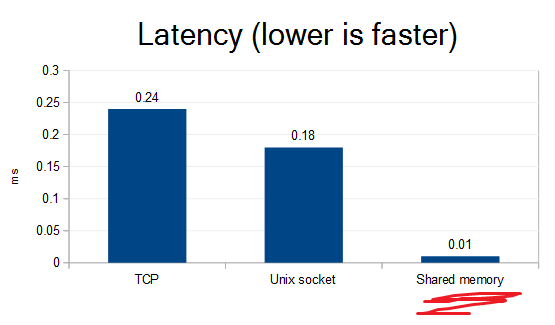
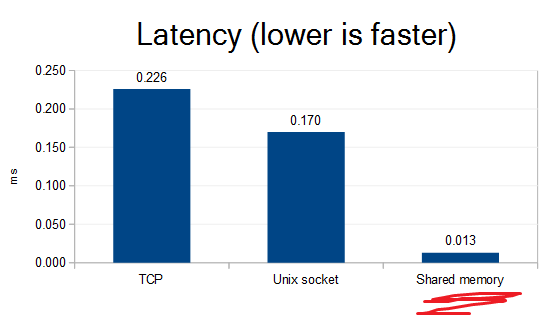
Updated, extended README.

diff --git a/README.md b/README.md
@@ -1,48 +1,8 @@
 # Shared memory support for Redis
 
-![Average latency: TCP=0.24ms Unix_socket=0.18ms Shared_memory=0.01ms](docs/latency_barchart.png)
+![Average latency: TCP=0.226ms Unix_socket=0.170ms Shared_memory=0.013ms](docs/latency_barchart.png)
 
-When your client is on the **same host as redis server**, you can get much better latency than going through the TCP stack. And surely you want the **best latency you can get**. Redis folk know this - that's why unix socket support exists. But you can do a lot better with shared memory!
-
-<pre>
-01:19:53 edg@host ~/tmp/redis $ ~/tmp/redis/src/redis-cli --latency
-min: 0, max: 3, avg: 0.24 (66054 samples)^C
-
-01:31:36 edg@host ~/tmp/redis $ ~/tmp/redis/src/redis-cli -s /tmp/redis.sock --latency
-min: 0, max: 3, avg: 0.18 (73476 samples)^C
-
-~/tmp/redis/src/redis-server --loadmodule ~/tmp/redis-module-shm/module-shm.so
-00:58:44 edg@host ~/tmp/redis $ ~/tmp/redis/src/redis-cli --latency-history
-min: 0, max: 1, avg: 0.02 (1476 samples) -- 15.01 seconds range
-min: 0, max: 1, avg: 0.01 (1476 samples) -- 15.01 seconds range
-min: 0, max: 520, avg: 0.43 (1416 samples) -- 15.01 seconds range
-min: 0, max: 5, avg: 0.02 (1475 samples) -- 15.01 seconds range
-min: 0, max: 1, avg: 0.01 (1475 samples) -- 15.01 seconds range
-min: 0, max: 4, avg: 0.01 (1474 samples) -- 15.00 seconds range
-min: 0, max: 40, avg: 0.28 (1436 samples) -- 15.01 seconds range
-min: 0, max: 1, avg: 0.01 (1476 samples) -- 15.00 seconds range
-min: 0, max: 2, avg: 0.01 (1476 samples) -- 15.01 seconds range
-min: 0, max: 1, avg: 0.02 (1473 samples) -- 15.00 seconds range
-min: 0, max: 30, avg: 0.23 (1441 samples) -- 15.00 seconds range
-min: 0, max: 1, avg: 0.01 (1476 samples) -- 15.01 seconds range
-min: 0, max: 1, avg: 0.01 (1475 samples) -- 15.01 seconds range
-min: 0, max: 1, avg: 0.01 (1475 samples) -- 15.01 seconds range
-min: 0, max: 50, avg: 0.23 (1445 samples) -- 15.01 seconds range
-min: 0, max: 1, avg: 0.01 (1476 samples) -- 15.01 seconds range
-min: 0, max: 1, avg: 0.01 (1476 samples) -- 15.01 seconds range
-min: 0, max: 1, avg: 0.01 (1474 samples) -- 15.01 seconds range
-min: 0, max: 40, avg: 0.35 (1417 samples) -- 15.00 seconds range
-min: 0, max: 2, avg: 0.02 (1474 samples) -- 15.01 seconds range
-min: 0, max: 1, avg: 0.01 (1474 samples) -- 15.01 seconds range
-min: 0, max: 1, avg: 0.01 (1474 samples) -- 15.00 seconds range
-min: 0, max: 33, avg: 0.26 (1438 samples) -- 15.01 seconds range
-min: 0, max: 1, avg: 0.01 (1474 samples) -- 15.01 seconds range
-min: 0, max: 1, avg: 0.01 (1473 samples) -- 15.01 seconds range
-min: 0, max: 1, avg: 0.01 (1474 samples) -- 15.01 seconds range
-min: 0, max: 50, avg: 0.42 (1416 samples) -- 15.00 seconds range
-min: 0, max: 1, avg: 0.01 (1354 samples)^C
-</pre>
-^ Way too sensitive to system load... Working on it...
+When your client is on the **same host as redis server**, you can get much better latency than going through the TCP stack. And surely you want the **best latency you can get**. Redis folk know this - that's why unix socket support exists. But you can do a lot better with shared memory! See the benchmark at [#Performance](#Performance) section below.
 
 # Summary and usage
 
@@ -51,3 +11,59 @@ Redis module for shared memory client-server communication.
 **EARLY DEVELOPMENT!**
 
 **NOT ready for use to ANYONE!**
+
+
+### Compilation
+
+### Usage
+
+Server side: `redis-server --loadmodule module-shm.so`
+
+Client side: It's all the same [hiredis](https://github.com/redis/hiredis) you're used to using. Latency has its tradeoffs - to achieve maximum latency, a single thread is working at 100% load, actively reading for changes in memory. So, you must first understand this, and confirm latency is important for you, by calling: `asdfasdf`
+TODO
+
+### How does it work?
+
+This code all relies on Linux, GCC and x86. I'm not even trying to investigate other platforms or compilers, as each is like a unicorn in this field - amazingly unique, complex, entwined in mysterious behaviours. Linux & GCC & x86 is the most popular combo.
+* Linux shared memory - makes the communication possible. There are 2 FIFOs - one for each direction of communication. They are circular buffers of chars, nothing more.
+* GCC atomics - allows avoiding relatively heavy synchronization mechanisms. Forcing the compiler and CPU do things in order with [memory barriers](https://gcc.gnu.org/onlinedocs/gcc-4.4.0/gcc/Atomic-Builtins.html), and using TODO to avoid partial memory write/read nastiness.
+* GCC volatile - avoids optimization dropping "unneeded" reads/writes. GCC sanely assumes no outsider is able to modify the memory the code accesses, but the shared memory does exactly that. Using `volatile` drops the GCC assumption.
+* ~~mfence/clflush - avoids waiting for shared memory writes to move out of L1. (An alernative could be a [userspace DMA](https://github.com/ikwzm/udmabuf)?)~~ <- Nah, the default behaviour seems good enough and even slightly faster than clflush. Data moves out of L1 quickly. Calling clflush however forces data to be moved up to the main memory, a slow and often unnecessary task. 
+
+Whenever a TCP or socket read()/write() would be called, a pop/push on the circular buffer is done instead.
+
+A single dedicated thread on redis-server is actively reading the shared memory, waiting for input, or waiting for the buffer to free up. It never sleeps, and uses 100% of the CPU core, whenever at least one client is connected. Similarily, the redis client uses 100% of its CPU core during any redis API call. It's a chosen tradeof to avoid communicating through kernel, thus keeping latency extremely low. There is a gotcha though. When CPU load is high, the CPU scheduler gives bursts of CPU time, causing high latency during downtimes. As load gets higher, the duration and time between (=latency) the bursts gets higher. To avoid this latency, redis-server and client should be run with higher priority than other processes. Note that the same problem does not affect TCP or unix socket communication when redis requests have relatively large gaps between them. When a request occurs, the "waiting for sockets" redis server (and client, if it was also sleeping) is woken up almost immediately because it hasn't used up any recent CPU time yet. I may implement configurable alternatives later...
+
+Now, the nasty part...
+TODO
+
+The TCP or Unix socket connection is still necessary. It is used to exchange the info about the shared memory. When a new shared memory connection is established, a `SHM.OPEN` redis module command is sent through the socket. No more information is exchanged through the socket after that, until the connection needs to be broken down.
+
+### Performance
+
+Well, the barchart above pretty much describes it. There are a few things to take attention for though:
+* Your latency sensitive redis server and client need to run with high CPU scheduler priority. See section [#How does it work?](#How does it work?) for the explanation why it's needed.
+* I made the test on a practically idle host. When the host is under load (`stress --cpu 50`), the latency of TCP and unix socket communication decreases... Yeah, I know. Under load, unix socket ping latency drops to 0.052ms. Several times higher than shared memory but an impressive drop nonetheless. But why it happens, I don't know. CPU power saving? Other folk have noticed this phenomena too and are [guessing it may be a scheduler thing](http://stackoverflow.com/questions/33950984/how-to-understand-redis-clis-result-vs-redis-benchmarks-result).
+
+This is how the benchmark for the barchart is done:
+<pre>
+
+sudo nice -n -15 sudo -u edg ~/tmp/redis/src/redis-server --loadmodule ~/tmp/redis-module-shm/module-shm.so
+03:08:54 edg@host ~/tmp/redis $ sudo taskset 0x01 nice -n -15 sudo -u edg ~/tmp/redis/src/redis-cli --latency
+min: 0, max: 94, avg: 0.013 (878912 samples)^C
+
+sudo nice -n -15 sudo -u edg ~/tmp/redis/src/redis-server
+05:37:58 edg@host ~/tmp/redis $ sudo taskset 0x01 nice -n -15 sudo -u edg ~/tmp/redis/src/redis-cli --latency
+min: 0, max: 70, avg: 0.226 (853519 samples)^C
+
+sudo nice -n -15 sudo -u edg ~/tmp/redis/src/redis-server redis.conf # <- enabled unixsocket in conf
+10:02:25 edg@host ~/tmp/redis $ sudo taskset 0x01 nice -n -15 sudo -u edg ~/tmp/redis/src/redis-cli -s redis.sock --latency
+min: 0, max: 106, avg: 0.170 (1041387 samples)^C
+
+</pre>
+
+If you compile this module, please make the tests and send in your results (as a new issue or email), for a little less bias.
+You need a redis-cli which uses the hiredis with shared memory. You can find it here, and compile as you would a normal redis: TODO 
+
+(Note that redis-benchmark won't use shared memory. It implements its own low level communication with redis server, bypassing the hiredis code with shared memory support. But redis-cli doesn't do magic, so can be used for testing latency.)
+
